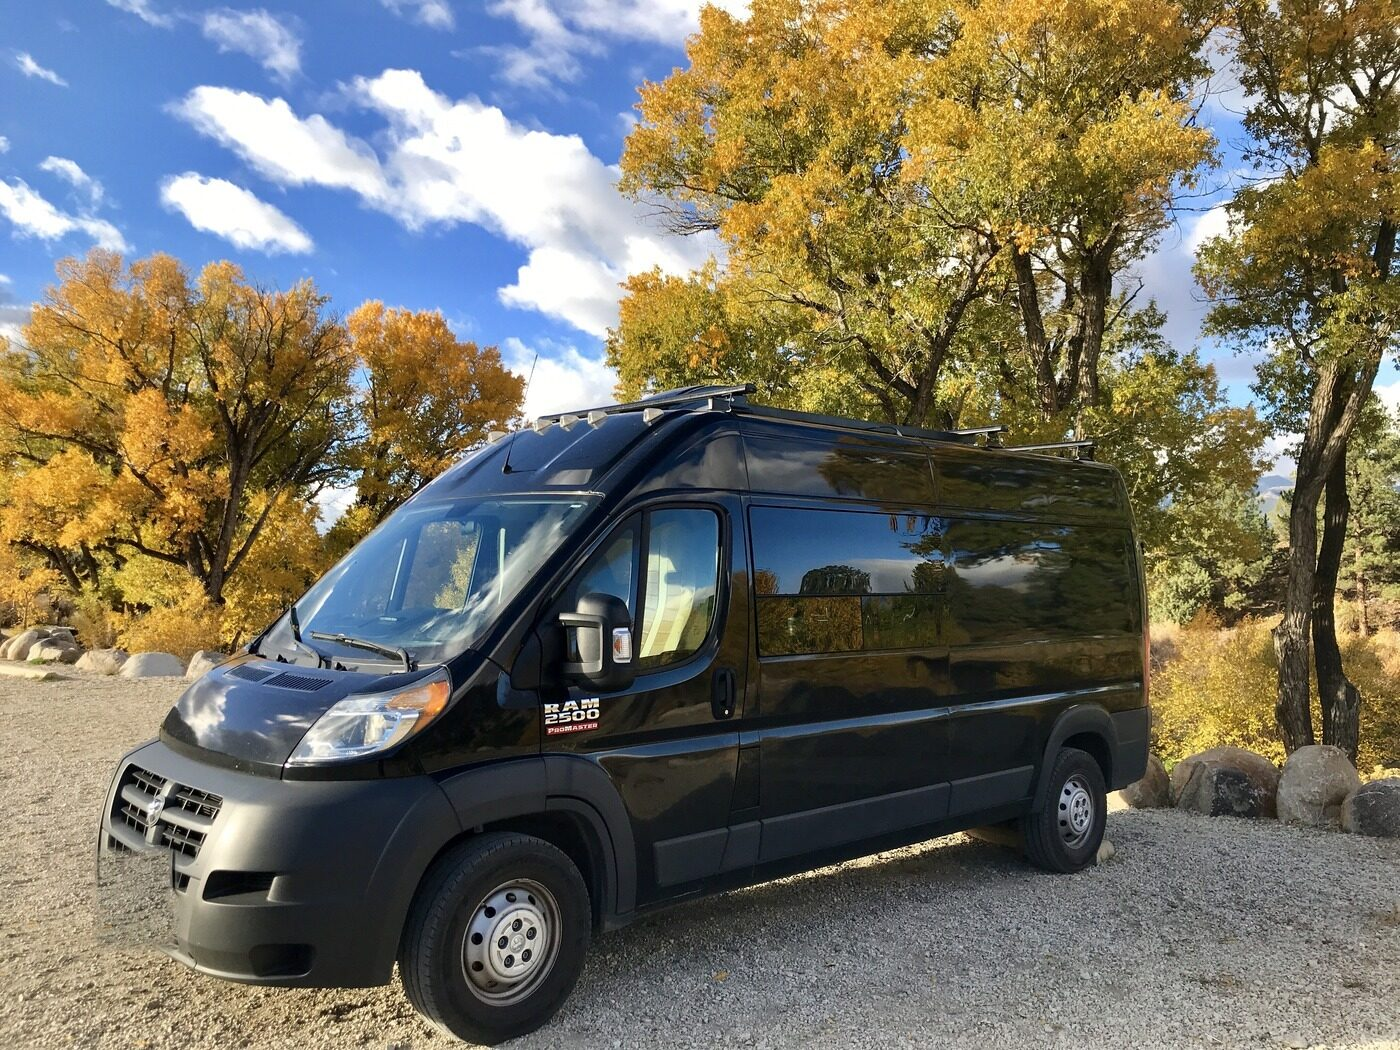
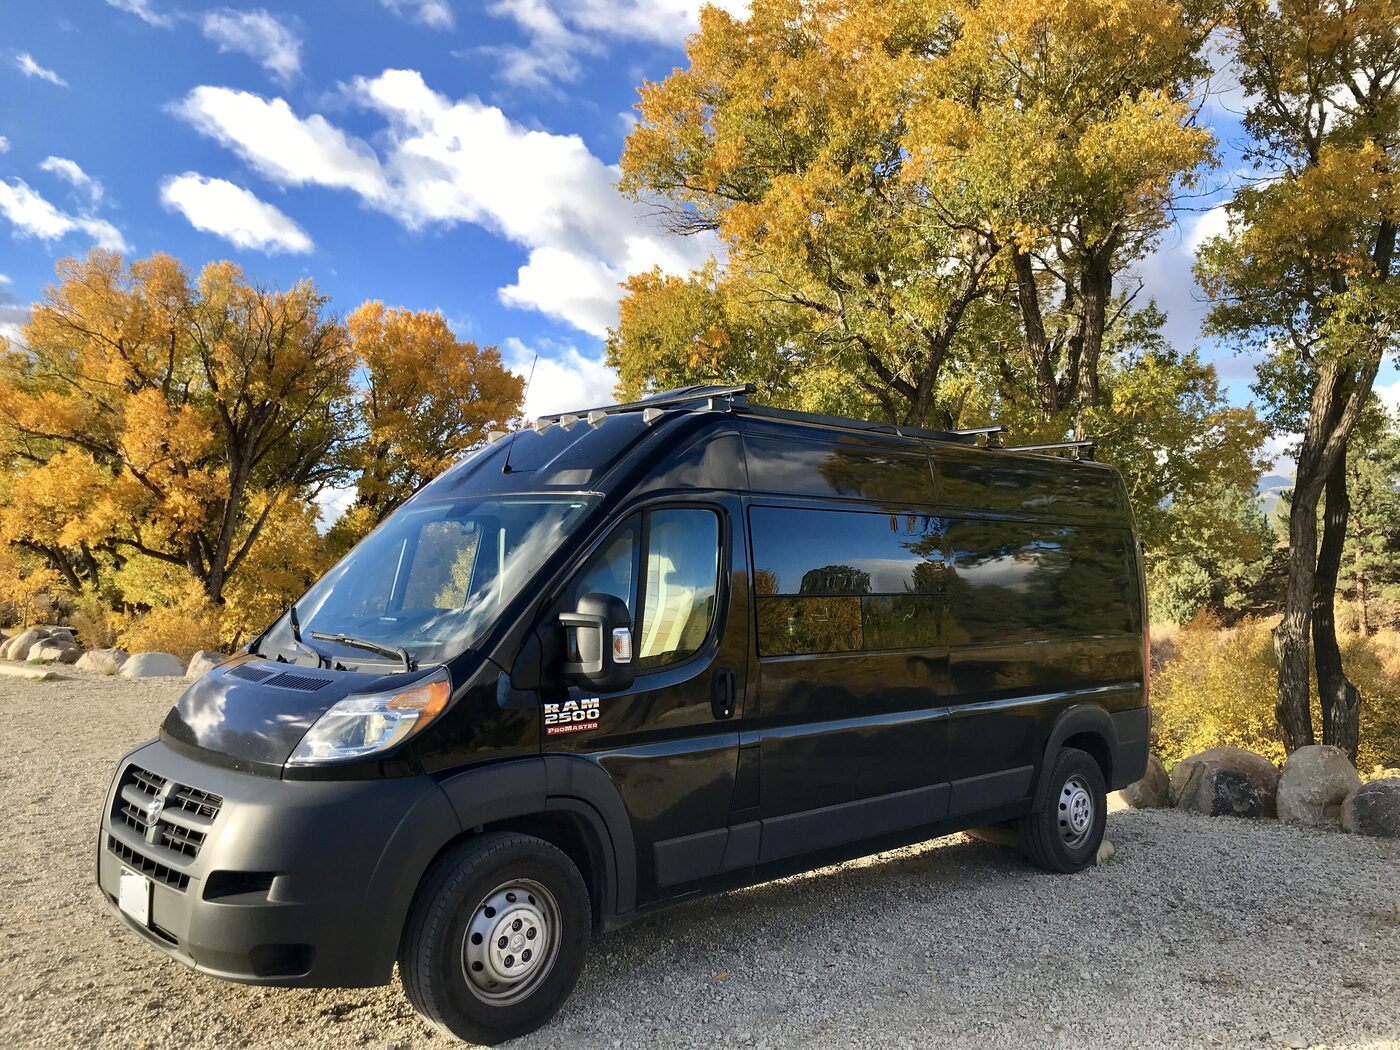
Blank the plates properly: keep the plate, lose the characters
The erase pass shipped in b314a52 left a smear on nine photos. Redone as blank
white plates, which is what car photography does — the eye passes over a blank
plate because it is still a real object, and passes straight to a smear because
it is not. van-colorado-fall is untouched; that one came out right the first time.

Rebuilt from the library originals, not from the shipped files. Git has no clean
copy of any of these — every version in the repo had already been pixelated,
covered and then smeared — and sampling a previous smear for the fill colour just
launders the smear.

blankplate.py now paints an INSET region rather than the whole plate, so the
plate's real border, perspective and highlight survive and only the characters
are covered, and it takes four corners as well as a box: a three-quarter view
foreshortens a 2:1 plate to nearly square, and an axis-aligned fill on one of
those reads as a sticker.

Changed region(s): [[0.0614, 0.7924, 0.1536, 0.9143]]

diff --git a/scripts/blankplate.py b/scripts/blankplate.py
@@ -1,22 +1,53 @@
 #!/usr/bin/env python3
 """Blank out a licence plate: keep the plate, lose the characters.
 
-Jesse's call, 2026-08-12, and it is what car photography does — a blank plate
-still reads as a real object, so the eye passes over it. The alternatives were
-both worse: a branded sticker looked amateur, and blending the plate into the
-bumper left a soft smear that was obvious at hero size.
+Jesse's call, 2026-08-12, reaffirmed 2026-08-19, and it is what car photography
+does — a blank plate still reads as a real object, so the eye passes over it.
+The alternatives were both worse: a branded sticker looked amateur, and erasing
+the plate into the bumper left a soft smear that was obvious at hero size. That
+smear is exactly what shipped in b314a52 and what this rewrite replaces.
 
-The fill colour is taken from the plate's OWN bright pixels, so the blank plate
-sits in exactly the light the real one did — bright in sun, dim when backlit —
-instead of glowing white in a dark photo. A faint vertical gradient, the plate's
-own darker rim and a little grain keep it from looking like pasted vector art.
+WHAT CHANGED, 2026-08-19
+------------------------
+The first version painted an opaque rectangle over the whole plate, rim and all.
+That only works for a plate photographed square-on. Most of these photos are
+three-quarter views where the plate is a foreshortened parallelogram — often
+nearer square than 2:1 — and an axis-aligned rectangle laid over one reads as a
+sticker, which was the original complaint.
 
-Usage: blankplate.py IN OUT X1 Y1 X2 Y2
+So the region is now an INSET: a box safely INSIDE the plate, never its edges.
+The plate's own border, corners, perspective, shadow and specular highlight are
+real pixels that survive untouched; only the characters are covered. The fill is
+feathered into them, so there is no seam to find. Being inset also makes the
+coordinates forgiving — a few pixels of error stays inside the plate instead of
+spilling onto the bumper.
+
+Work from the ORIGINAL photo in the library, never from a version already
+sanitised: the fill colour is sampled from the region's own bright pixels, and
+sampling a previous smear just launders the smear.
+
+A plate shot from three-quarters on is a tilted parallelogram, and an
+axis-aligned box inside one either misses the corners or spills onto the grille.
+Pass four corners instead and the fill follows the plate.
+
+Usage: blankplate.py IN OUT X1 Y1 X2 Y2 [FEATHER]                  (box)
+       blankplate.py IN OUT X1,Y1 X2,Y2 X3,Y3 X4,Y4 [FEATHER]      (quad)
+       Coordinates describe a region INSIDE the plate, never its edges.
+       FEATHER = blur radius for the mask edge, default 3.
 """
 import subprocess, sys
 
 IN, OUT = sys.argv[1], sys.argv[2]
-X1, Y1, X2, Y2 = (int(v) for v in sys.argv[3:7])
+rest = sys.argv[3:]
+QUAD = None
+if "," in rest[0]:
+    QUAD = [tuple(int(v) for v in p.split(",")) for p in rest[:4]]
+    FEATHER = float(rest[4]) if len(rest) > 4 else 3.0
+    X1 = min(p[0] for p in QUAD); X2 = max(p[0] for p in QUAD)
+    Y1 = min(p[1] for p in QUAD); Y2 = max(p[1] for p in QUAD)
+else:
+    X1, Y1, X2, Y2 = (int(v) for v in rest[:4])
+    FEATHER = float(rest[4]) if len(rest) > 4 else 3.0
 w, h = X2 - X1 + 1, Y2 - Y1 + 1
 
 W, H = map(int, subprocess.run(["magick", "identify", "-format", "%w %h", IN],
@@ -41,21 +72,25 @@ bright = inside[: max(1, len(inside) * 45 // 100)]
 n = len(bright)
 face = [sum(c[i] for c in bright) / n for i in range(1, 4)]
 
-# Rim: the darker edge of the plate, so it still reads as a physical object.
-rim = [c * 0.72 for c in face]
-hex_face = "#%02X%02X%02X" % tuple(int(round(min(255, c))) for c in face)
-hex_rim = "#%02X%02X%02X" % tuple(int(round(min(255, c))) for c in rim)
-# A plate is lit slightly unevenly; 6% top-to-bottom reads as real, flat does not.
-hex_top = "#%02X%02X%02X" % tuple(int(round(min(255, c * 1.06))) for c in face)
-hex_bot = "#%02X%02X%02X" % tuple(int(round(min(255, c * 0.94))) for c in face)
-print(f"plate face {hex_face}  rim {hex_rim}")
+# A plate is lit slightly unevenly; ~5% top-to-bottom reads as real, flat does not.
+hx = lambda m: "#%02X%02X%02X" % tuple(int(round(min(255, max(0, c * m)))) for c in face)
+hex_top, hex_bot = hx(1.05), hx(0.95)
+shape = ("polygon " + " ".join(f"{x},{y}" for x, y in QUAD)) if QUAD \
+        else f"rectangle {X1},{Y1} {X2},{Y2}"
+print(f"plate face {hx(1.0)}  {'quad' if QUAD else 'box'} {w}x{h} at {X1},{Y1}  feather {FEATHER}")
 
+# The fill, and a mask whose blurred edge lets the real plate show through at the
+# boundary. Composited with -composite over a mask so the seam never lands on an
+# edge the eye is already tracking.
 subprocess.run([
     "magick", IN,
     "(", "-size", f"{w}x{h}", f"gradient:{hex_top}-{hex_bot}",
-         "-attenuate", "0.28", "+noise", "Gaussian",
-         "-bordercolor", hex_rim, "-shave", "1x1", "-border", "1",
-         "-blur", "0x0.4",
-    ")", "-geometry", f"+{X1}+{Y1}", "-compose", "over", "-composite",
-    "-quality", "92", OUT], check=True)
+         "-attenuate", "0.22", "+noise", "Gaussian", "-blur", "0x0.5",
+    ")", "-geometry", f"+{X1}+{Y1}",
+    "(", "-size", f"{W}x{H}", "xc:black",
+         "-fill", "white", "-draw", shape,
+         "-blur", f"0x{FEATHER}",
+    ")",
+    "-compose", "over", "-composite",
+    "-quality", "95", OUT], check=True)
 print("wrote", OUT)
